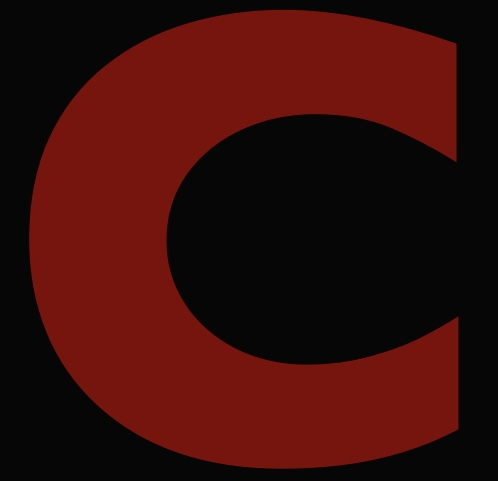
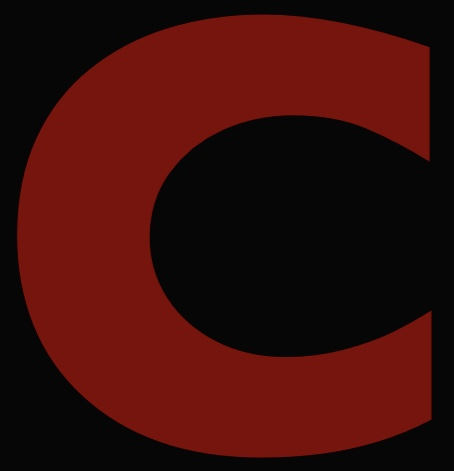
fixed wrapping on navBar adaptive views

diff --git a/client/src/components/header/NavBar.tsx b/client/src/components/header/NavBar.tsx
@@ -19,27 +19,37 @@ export default function NavBar() {
 
   return (
     <nav className="navbar navbar-expand-lg navbar-dark">
-      <div className="container-fluid">
+      <div className="container-fluid d-flex align-items-center justify-content-between">
         <Link className="navbar-brand" to="/">
-          <img src="/images/cinematiq.jpg" alt="Cinematiq" className="logo" />
+          <picture>
+            <source
+              media="(max-width: 768px)"
+              srcSet="/images/cinematiqS.jpg"
+            />
+            <img src="/images/cinematiq.jpg" alt="Cinematiq" className="logo" />
+          </picture>
         </Link>
-        <div className="navbar-nav ms-auto mb-2 mb-lg-0">
-          {links.map((link, index) => (
-            <li className="nav-item" key={index}>
-              <Link
-                className={`nav-link ${pathname === link.path ? 'active' : ''}`}
-                to={link.path}
-              >
-                {link.icon && <span className="me-2">{link.icon}</span>}
-                {link.label}
+        <div className="d-flex flex-grow-1 justify-content-end">
+          <ul className="navbar-nav d-flex flex-row align-items-center">
+            {links.map((link, index) => (
+              <li className="nav-item" key={index}>
+                <Link
+                  className={`nav-link ${
+                    pathname === link.path ? 'active' : ''
+                  }`}
+                  to={link.path}
+                >
+                  {link.icon && <span className="me-2">{link.icon}</span>}
+                  {link.label}
+                </Link>
+              </li>
+            ))}
+            <li className="nav-item">
+              <Link className="btn btn-create" to="/review/create">
+                <CiSquarePlus className="icon" /> CREATE
               </Link>
             </li>
-          ))}
-          <li className="nav-item">
-            <Link className="btn btn-create" to="/review/create">
-              <CiSquarePlus className="icon" /> CREATE
-            </Link>
-          </li>
+          </ul>
         </div>
       </div>
     </nav>

diff --git a/client/src/components/header/NavBar.css b/client/src/components/header/NavBar.css
@@ -1,5 +1,6 @@
 .logo {
-  width: 150px;
+  width: auto;
+  height: 50px;
 }
 
 .navbar-dark {
@@ -13,6 +14,7 @@
   margin-right: 20px;
   display: flex;
   align-items: center;
+  white-space: nowrap;
 }
 
 .navbar-dark .navbar-nav .nav-link:hover {
@@ -37,6 +39,7 @@
   font-size: 16px;
   font-weight: bold;
   text-transform: uppercase;
+  white-space: nowrap;
 }
 
 .btn-create .icon {
@@ -50,14 +53,18 @@
 }
 
 .navbar-nav {
+  display: flex;
   flex-direction: row;
   justify-content: flex-end;
+  align-items: center;
   width: 100%;
+  flex-wrap: nowrap;
 }
 
 .nav-item {
   display: flex;
   align-items: center;
+  white-space: nowrap;
 }
 
 .nav-link.active {
@@ -65,14 +72,14 @@
   font-weight: bold;
 }
 
-@media (max-width: var(--breakpoint-lg)) {
-  .navbar-brand img {
-    width: 120px;
+@media (max-width: 987px) {
+  .logo {
+    height: 30px;
   }
 
   .navbar-dark .navbar-nav .nav-link {
     font-size: 14px;
-    margin-right: 15px;
+    margin-right: 10px;
   }
 
   .navbar-dark .navbar-nav .nav-link .icon {
@@ -90,14 +97,14 @@
   }
 }
 
-@media (max-width: var(--breakpoint-md)) {
-  .navbar-brand img {
-    width: 100px;
+@media (max-width: 576px) {
+  .logo {
+    height: 25px;
   }
 
   .navbar-dark .navbar-nav .nav-link {
     font-size: 12px;
-    margin-right: 10px;
+    margin-right: 5px;
   }
 
   .navbar-dark .navbar-nav .nav-link .icon {
@@ -112,30 +119,5 @@
   .btn-create .icon {
     font-size: 16px;
     margin-right: 2px;
-  }
-}
-
-@media (max-width: var(--breakpoint-sm)) {
-  .navbar-brand img {
-    width: 80px;
-  }
-
-  .navbar-dark .navbar-nav .nav-link {
-    font-size: 10px;
-    margin-right: 5px;
-  }
-
-  .navbar-dark .navbar-nav .nav-link .icon {
-    font-size: 14px;
-  }
-
-  .btn-create {
-    padding: 2px 4px;
-    font-size: 10px;
-  }
-
-  .btn-create .icon {
-    font-size: 14px;
-    margin-right: 1px;
   }
 }
